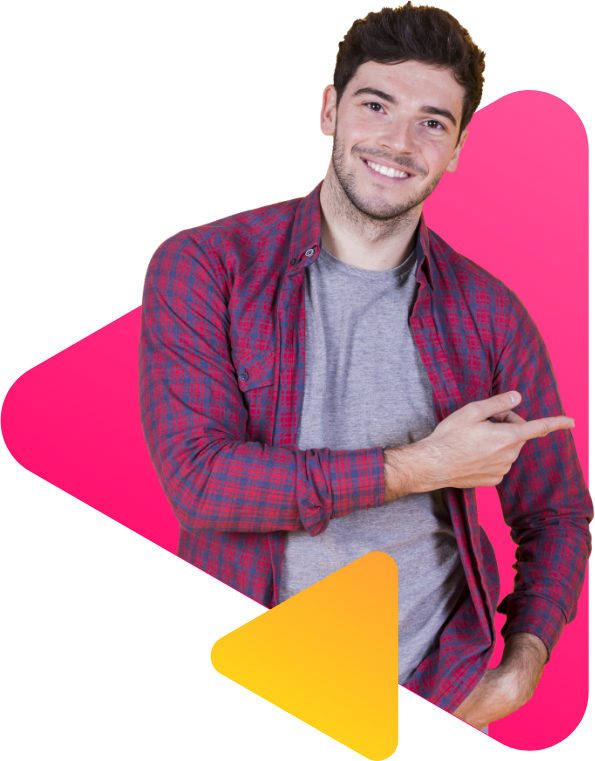
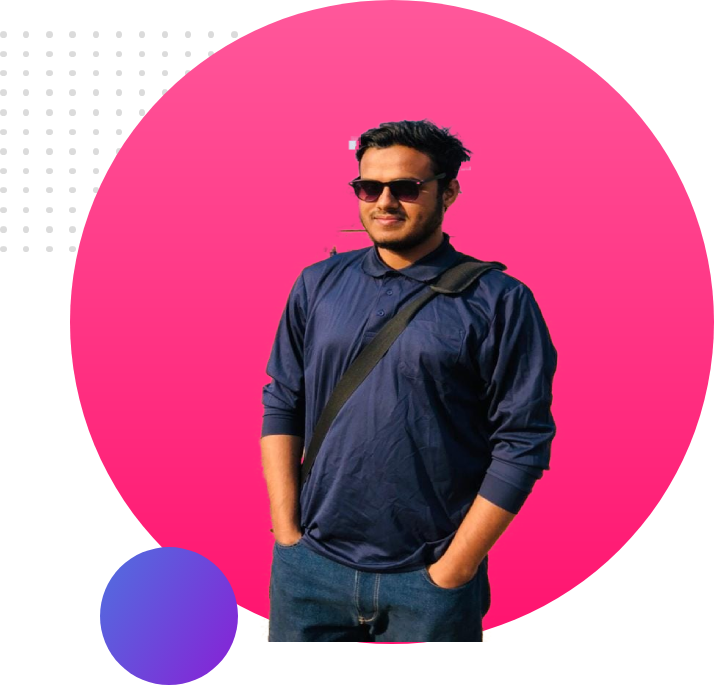
finshed website

diff --git a/index.html b/index.html
@@ -5,16 +5,27 @@
     <meta name="viewport" content="width=device-width, initial-scale=1.0">
     <meta http-equiv="X-UA-Compatible" content="ie=edge">
     <title>Shariful Web Developer</title>
+   
     <link href="https://fonts.googleapis.com/css?family=Poppins&display=swap" rel="stylesheet">
     <link rel="stylesheet" href="style.css">
 </head>
 <body>
+    <div class="menu">
+       
+            
+            <a href="#">Contact</a>
+            <a href="#">Protfolio</a>          
+            <a href="#">Work</a>
+            <a href="#">About</a>  
+                      
+    </div>
+    
     <section class="top-banner">
         <div class="half-width">
            <div class="high">
-            <h1>Hello I'm</h1>
+            <h1>HELLO I'M</h1>
        
-            <h1><span class="orange-highlight">Jack Smith</span></h1>
+            <h1><span class="orange-highlight">Rob Davidson</span></h1>
             
             <p>You might saw me jumping, climbing buildings.It was very harmful day in day.</p><br>
             <a class="link-button" target="_blank" href="https://sharifpro.github.io/my-protfolio/">HIRE ME</a>
@@ -31,45 +42,75 @@
         </div>
         <div class="half-width">
             <div class="bio-filed">
-            <h2>Biography</h2>
+            <h2>About</h2>
             
             <p>I already learned the basic HTML and CSS. I can build any simple website. I can even teach my grandma how to make simple website. My goal is to build 3 websites and learn advanced topics.</p><br>
             <a class="link-button" target="_blank" href="https://www.linkedin.com/company/programminghero/">DOWNLOAD CV</a>
         </div>
         </div>
     </section>
-    <section class="experience-area">
-        <h2>My Latest Work</h2>
-        <div class="single-experience">
+    <section class="bio">
+
+        <div class="about-me">
+            <h2>BIOGRAPHY</h2>
+            <hr class="dotted-hr">       
+            <div class="aboutme-image">
+                <img src="images/shariful_islam.jpg" alt="">
+            </div>
+            <div class="aboutme-desc">
+                <p>I like to call myself “a passionate computer science Student & Web developer”. </p>
+                <p>I made lot of videos on different subjects. My first priority is making the subject more interesting and give you a clear understanding so you can feel it and don’t get bore.</p> 
+                
+                <hr class="aboutme-hr">
+                <p>Name: Shariful Islam</p> 
+                <hr class="aboutme-hr">
+                <p>Address: Dhaka, Bangladesh</p>
+                <hr class="aboutme-hr">
+                <p>Email: <a href="Sharif.gsc">Sharifgsc15@gmail.com</a> </p>
+                <hr class="aboutme-hr">
+                <p>Phone: <a href="tel:+358466150008">01515665271</a> </p>
+                <hr class="aboutme-hr">
+                <p>Website: <a href="#" target="blank">www.sharif71.com</a> </p>
+                <hr class="aboutme-hr">
+    
+            </div>
+    
+        </div>
+
+
+    </section>
+    <section class="work-area">
+        <h2><span class="latest">LASTET</span> WORKING PROJECT</h2>
+        <div class="work-experience">
             <img src="images/latest-work/work-1.png" alt="">
-            
+            <h3>Power-x-gym (gym website)</h3>
+            <p>Lorem Ipsum is simply dummy text of the printing and typesetting industry.</p>
         </div>
-        <div  class="single-experience">
-            <img src="images/latest-work/work-2.jpg" alt="">
-            
+        <div  class="work-experience">
+            <img src="images/latest-work/work-2.png" alt="">
+            <h3>Creative Agency</h3>
+            <p>Lorem Ipsum is simply dummy text of the printing and typesetting industry.</p>
         </div>
-        <div  class="single-experience">
-            <img src="images/latest-work/work-3.jpg" alt="">
-            
+        <div  class="work-experience">
+            <img src="images/latest-work/work-3.png" alt="">
+            <h3>Hard Rock Music</h3>
+            <p>Lorem Ipsum is simply dummy text of the printing and typesetting industry.</p>
         </div>
         
         
     </section>
     <div class="experience-area">
-        <h2>What Client Are Say</h2>
-        <div id="full-stack">
-            <h4>Bruce Moccy</h4>
-            <p>Founder & CEO Alies</p>
-            <p>"Lorem ipsum, dolor sit amet consectetur adipisicing.<br> alias cumque corporis atque ad facere ipsa itaque fugit."</p>
-            
-        </div>
-        <div class="box">
-            <p>Leave Me a message in the</p>
-            <h3>programming.hero1@gmail.com</h3>
-        </div>
+        
+    <img src="images/footer.png" alt="">
+    <h1>Work Inquiry</h1>
+    <button class="footer-btn">Let’s Chat</button>
+    
     </div>
-    <footer>
-        <p>© Shariful 2021, all rights reserved.</p>
-    </footer>
+    <div class="footer">
+        <h3>STAY CONNECTED</h3>
+        <a href="#">hello@design.com</a>
+    </div>
+    
+    
 </body>
 </html>

diff --git a/style.css b/style.css
@@ -7,6 +7,18 @@ h1{
     
     
 }
+.menu{
+    padding-right: 150px;
+}
+.menu a{
+    color: #3C3C3C;
+    float: right;
+    text-decoration: none;
+    margin: 7px 0px;  
+    padding: 20px;
+    font-weight:inherit;
+    
+}
 .high{
     
     padding-top: 30%;
@@ -17,7 +29,7 @@ h2{
     font-size: 40px;
 }
 p{
-    color: dimgray;
+    color: black;
 }
 .orange-highlight{
     color: rgb(221, 78, 114);
@@ -35,10 +47,7 @@ p{
     width: 100%;
     padding-top: 15%;
 }
-.top-banner{
-    background-image: url("images/header-bg.png");
-    background-repeat: no-repeat;
-}
+
 section{
     height: 500px;
     padding-bottom: 300px;
@@ -62,30 +71,92 @@ section{
    margin-top: 3%;
 }
 .dream-area{
-    background-image: url("images/biography-bg.png");
+    background-color:rgb(144, 142, 144);
     background-repeat: no-repeat;
     background-position: right;
 }
-.single-experience{
-    background-image: url("images/latest-work-bg.png");
-    width: 20%;
-    float: left;
-    margin-left: 5%;
-    padding-left: 3%;
-    background-color: white;
-    
+.bio{
+    height: 280px;
 }
-.single-experience img{
-    height: 300px;
-    width: 350px;
+.about-me{
+   
+    background-color: #39a4ac;
+    color: white;
+    font-family: 'Montserrat', sans-serif; 
+    padding: 1% 7%;  
+    text-align: center; 
     
-}
-.experience-area{
-    background-image: url("images/footer-bg.png");
-    background-repeat: no-repeat;
-    height: 50%;
   
 }
+
+.about-me p{  
+    /* font-size: 1rem;  */
+    text-align: center; 
+    color: white; 
+    text-align: justify; 
+}
+
+.aboutme-image img{   
+    border: 5px solid white;
+    border-radius: 50%; 
+    height: 220px;
+    width: 200px; 
+    float: left;
+     
+}
+.aboutme-image{
+    margin-left: 13%;
+}
+.aboutme-hr{
+    color: #F8F9FC;
+}
+.aboutme-desc {
+  width: 50%;
+  float: right;
+  color: #F8F9FC;
+    
+}
+
+
+
+.about-me::after{
+    clear: both;
+    content: '';   
+    display: table;
+}
+.work-experience{
+  
+    width: 350px;
+    float: left;
+    margin-left: 6%;
+    padding-left: 10px;
+    padding-bottom: 5%;
+    height: 300px;
+    background-color: #afacac;
+    border-radius: 1px solid #afacac;
+    border-radius: 15px;
+}
+.work-experience p{
+    font-size: 15px;
+}
+
+.work-area img{
+    height: 209px;
+    width: 336px;
+    padding-top: 15px;
+    border-radius: 15px;
+   
+    
+}
+.work-area{
+    background-color: #F8F9FC;
+    height: 450px;
+    
+}
+.latest{
+    color: #F46060;
+}
+
 
 #full-stack{
     text-align: center;
@@ -114,15 +185,54 @@ section{
     display: block;
     padding-bottom: 5%;
 }
-.experience-area h2{
+
+.work-area h2{
     text-align: center;
     padding-top: 5%;
-   
+    font-family: Bebas Neue;
+}
+.experience-area img{
+    width: 60%;
+    height: 210px;
+    margin-left: 22%;
+    padding-top: 3%;
+    
 }
 
-
-footer p{
+.experience-area h1{
+    font-size: 45px;
+    margin-left: 25%;
+    margin-top: -10%;
+    color: white;
+    
+}
+.footer-btn{
+    background-color: #FF8063;
+    float: right;
+    height: 50px;
+    width: 120px;
+    color: white;
+    font-weight: 500;
+    border: 1px solid #FF8063;
+    border-radius: 8px;
+    margin-top: -7%;
+    margin-right: 24%;
+    position: relative;
+    font-weight: bold;
+}
+.footer h3{
     text-align: center;
-    font-size: 12px;
-    padding-top: 12%;
+    margin-top: 10%;
+    color: gray;
+    font-size: 26px;
+    font-family:Arial, Helvetica, sans-serif;
+}   
+.footer a{
+     margin-left: 37%;
+    font-size: 40px;
+    color: rgb(13, 16, 24);
+    cursor: pointer;
+    text-decoration: none;
+    
 }
+
